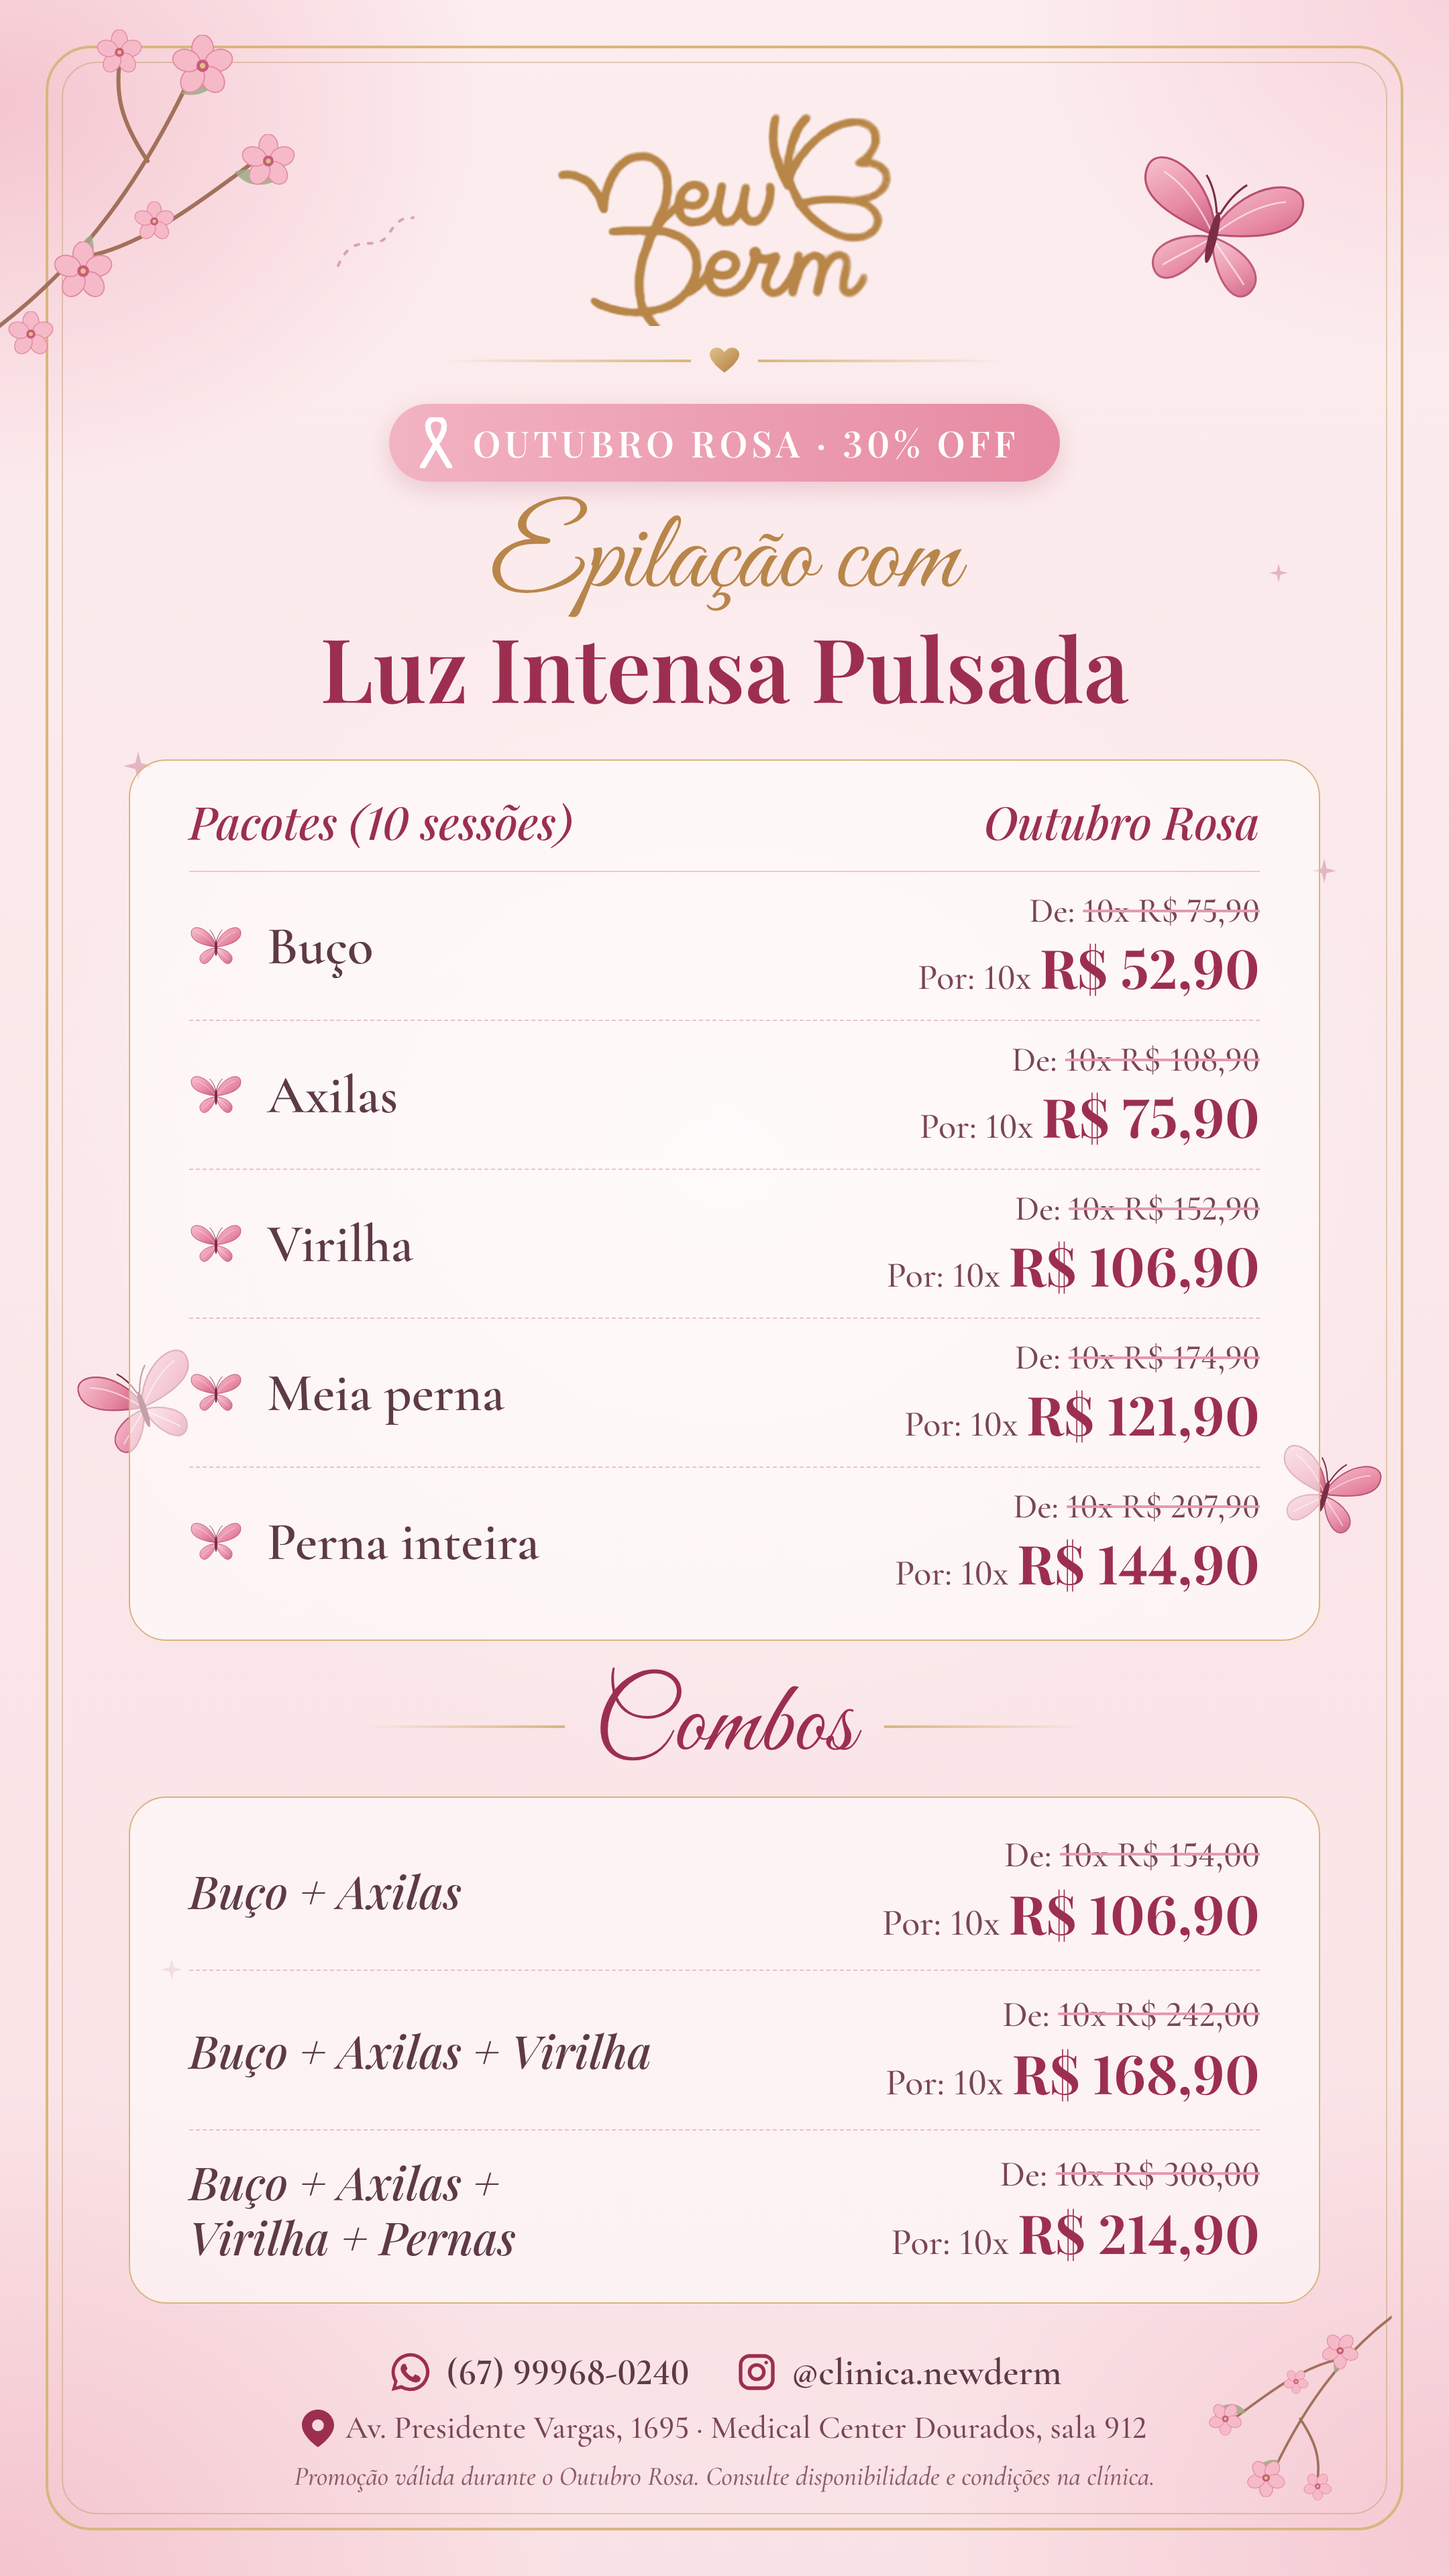
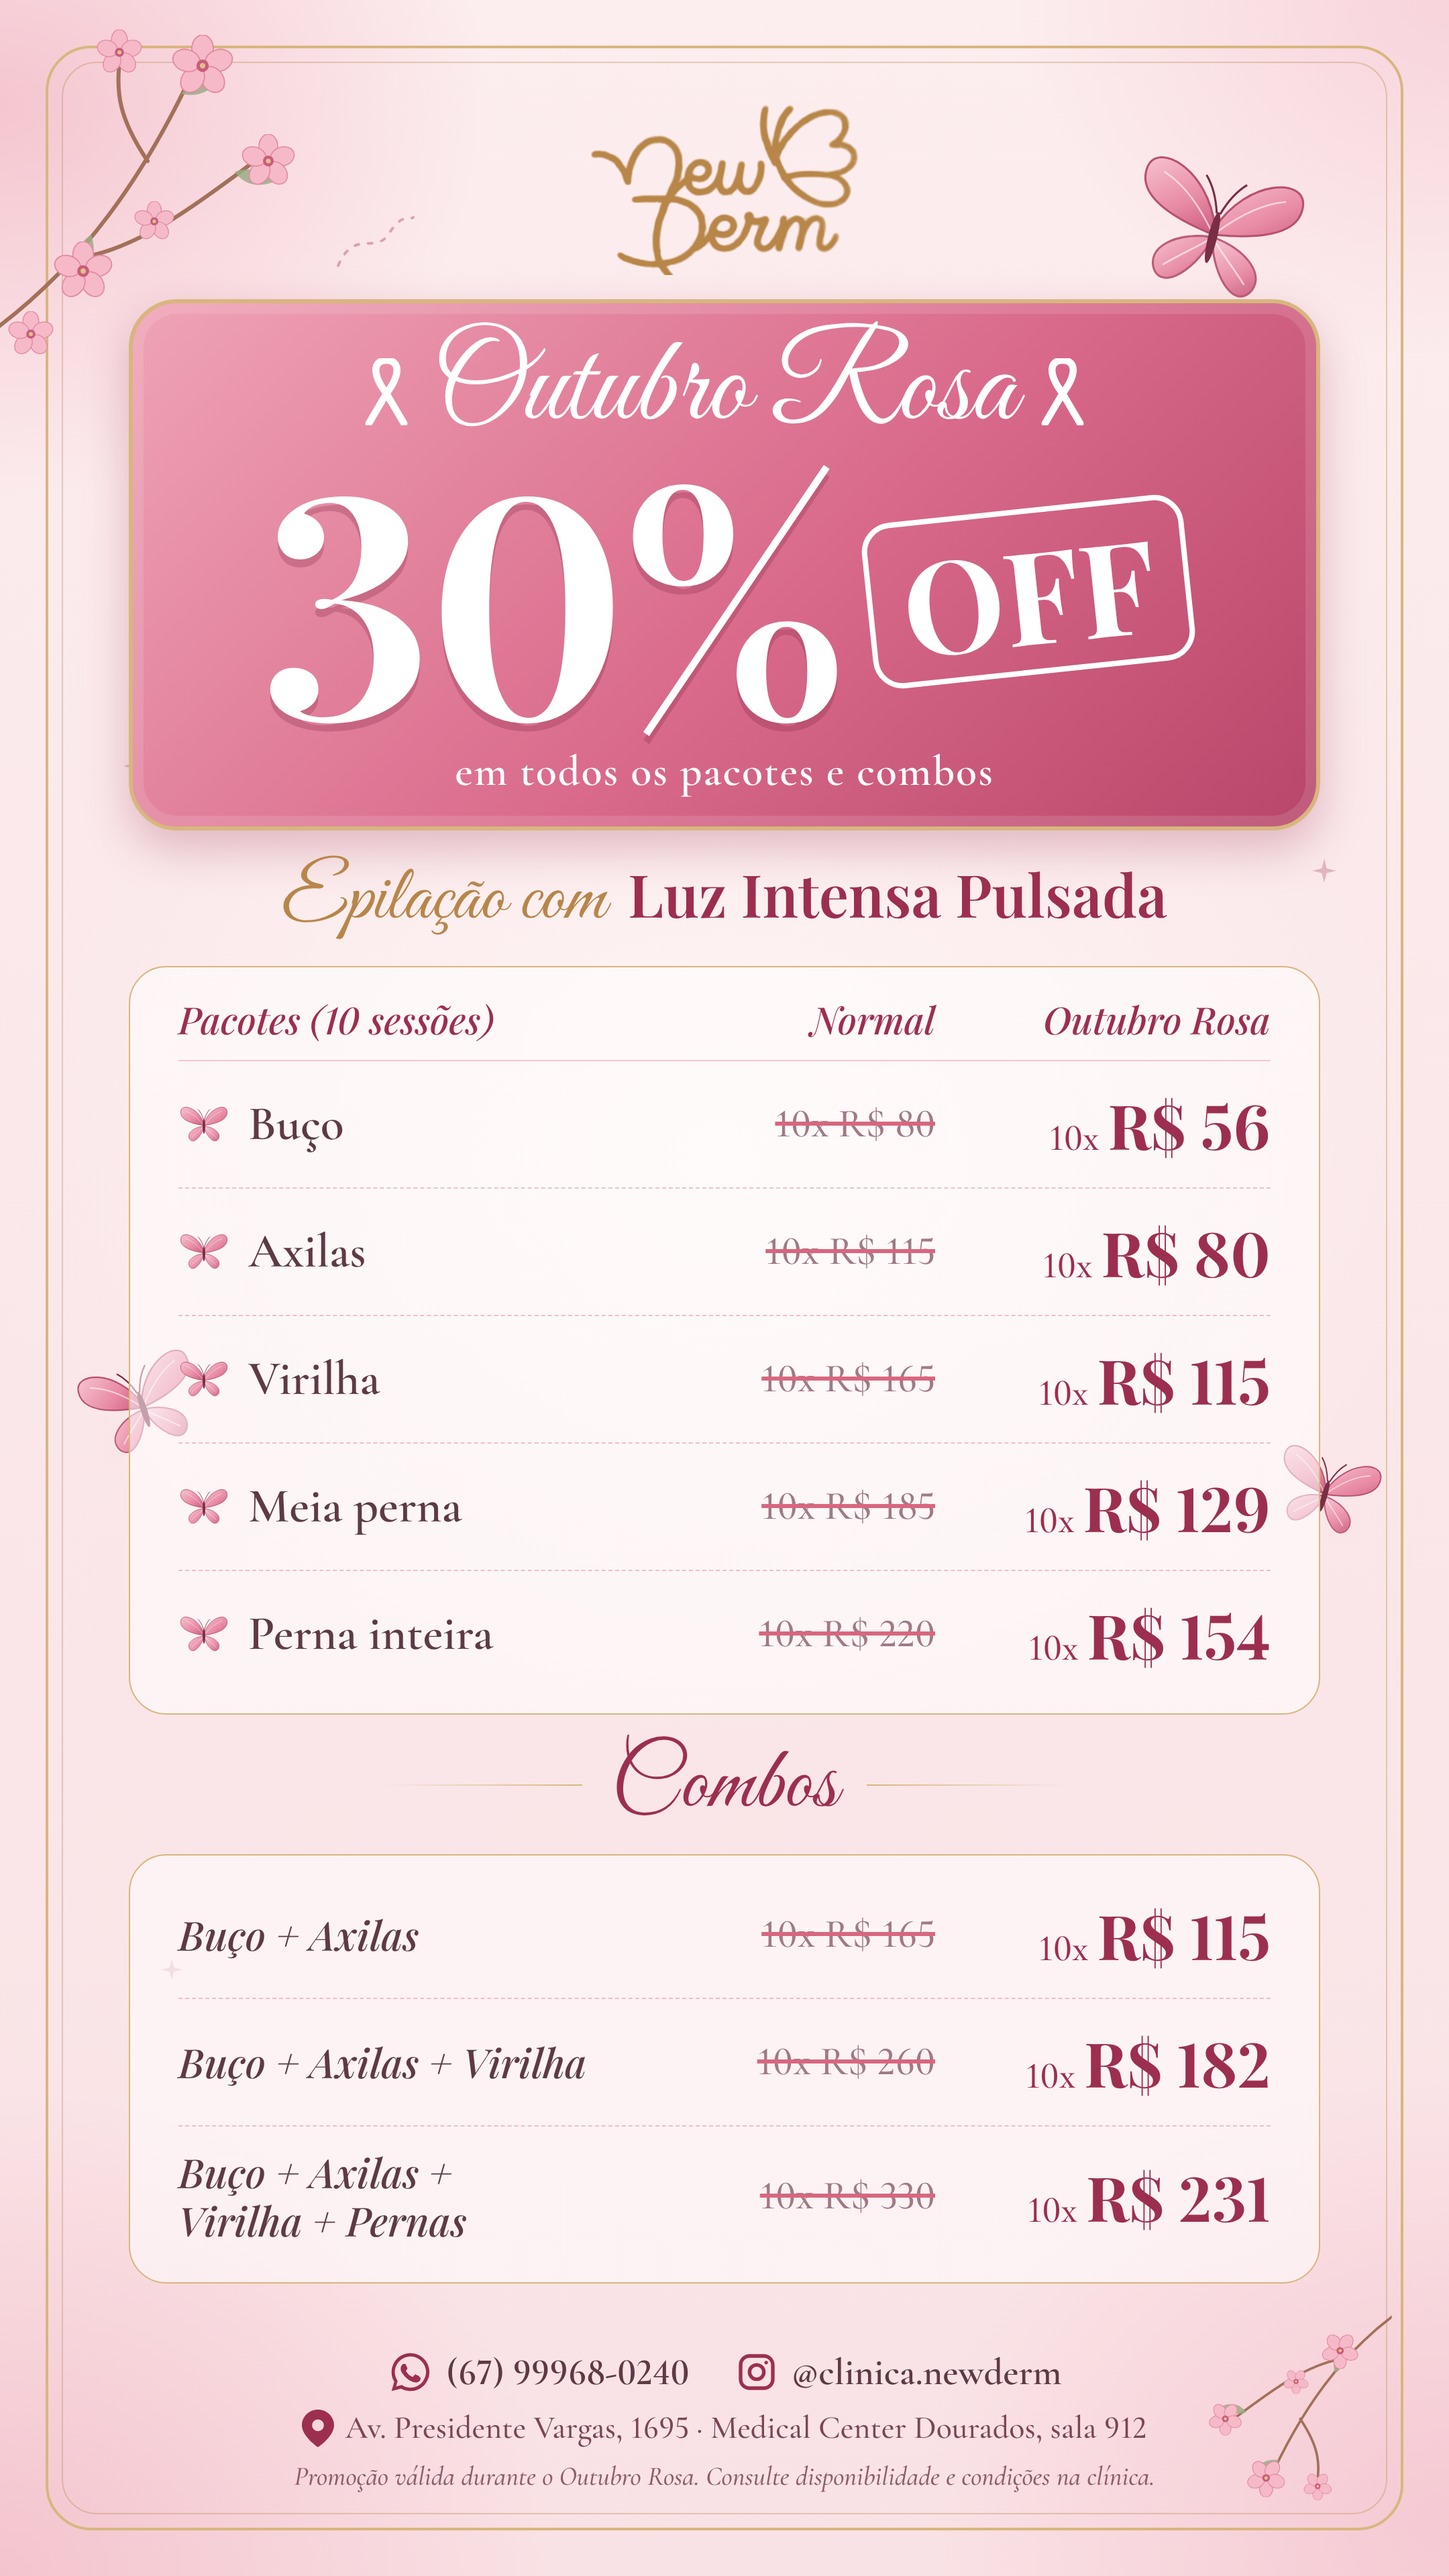
Tabela Outubro Rosa: destaque 30% OFF e valores redondos
Claude-Session: https://claude.ai/code/session_01YCM2u15pHTsNBGbgB1w3ys

diff --git a/identidade-visual/modelo-tabela/tabela.html b/identidade-visual/modelo-tabela/tabela.html
@@ -70,6 +70,29 @@
   .combo{padding:16px 0}
   .card{margin-top:34px}
   .sec{margin-top:26px}
+  .logo{width:200px;margin-top:0}
+  .hero{margin-top:18px;width:100%;border-radius:36px;padding:20px 30px 22px;text-align:center;color:#fff;
+    background:linear-gradient(135deg,#EFA3B6 0%,#D96A8B 55%,#B8466A 100%);border:3px solid var(--gold-l);
+    box-shadow:0 14px 34px rgba(156,47,79,.28), inset 0 0 0 8px rgba(255,255,255,.12)}
+  .hero-top{display:flex;align-items:center;justify-content:center;gap:18px}
+  .hero-top span{font-family:"Great Vibes";font-size:92px;line-height:1}
+  .big{display:flex;align-items:center;justify-content:center;gap:18px;margin-top:-6px}
+  .pct{font-family:"Playfair Display";font-weight:700;font-size:230px;line-height:.95;letter-spacing:-4px;text-shadow:0 6px 0 rgba(122,30,60,.25)}
+  .off{font-family:"Playfair Display";font-weight:700;font-size:96px;line-height:1;padding:10px 22px;border:4px solid #fff;border-radius:22px;transform:rotate(-6deg)}
+  .hero-sub{font-size:32px;font-weight:600;letter-spacing:1px;margin-top:4px}
+  .title{margin-top:22px;font-family:"Playfair Display";font-weight:600;color:var(--wine);font-size:44px;text-align:center}
+  .title .ts{font-family:"Great Vibes";font-weight:400;color:var(--gold);font-size:58px;margin-right:6px}
+  .card{margin-top:18px;padding:12px 36px}
+  .th,.r{display:grid;grid-template-columns:1fr 210px 250px;align-items:center}
+  .th{font-family:"Playfair Display";font-style:italic;color:var(--wine);font-size:28px;padding:8px 0 12px;border-bottom:1.5px solid var(--rose-l)}
+  .th .o,.th .w,.r .o,.r .w{text-align:right}
+  .r{padding:16px 0;border-bottom:1px dashed rgba(229,154,174,.6)}
+  .r:last-child{border-bottom:none}
+  .r .n{display:flex;align-items:center;gap:14px;font-size:36px;font-weight:600;color:#5E3A45}
+  .r.c .n{font-family:"Playfair Display";font-style:italic;font-weight:500;font-size:30px;line-height:1.2}
+  .r .o{font-size:30px;color:#A07A86} .r .o s{text-decoration-color:#D9667F;text-decoration-thickness:2.5px}
+  .r .w{font-size:28px;color:var(--wine)} .r .w b{font-family:"Playfair Display";font-weight:700;font-size:46px}
+  .sec{margin-top:20px} .sec span{font-size:66px}
 </style>
 </head>
 <body>
@@ -139,36 +162,35 @@
 
 <div class="content">
   <img class="logo" src="../logo-newderm-dourado.png" alt="New Derm">
-  <div class="divider"><i></i><svg width="22" height="20"><use href="#heart"/></svg><i></i></div>
 
-  <div class="tag">
-    <svg width="26" height="38" viewBox="0 0 26 38"><path d="M13 20 C4 8 6 1 13 1 C20 1 22 8 13 20 L3 37 M13 20 L23 37" stroke="#fff" stroke-width="4.2" fill="none" stroke-linecap="round"/></svg>
-    Outubro Rosa · 30% OFF
+  <div class="hero">
+    <div class="hero-top">
+      <svg width="34" height="50" viewBox="0 0 26 38"><path d="M13 20 C4 8 6 1 13 1 C20 1 22 8 13 20 L3 37 M13 20 L23 37" stroke="#fff" stroke-width="4" fill="none" stroke-linecap="round"/></svg>
+      <span>Outubro Rosa</span>
+      <svg width="34" height="50" viewBox="0 0 26 38"><path d="M13 20 C4 8 6 1 13 1 C20 1 22 8 13 20 L3 37 M13 20 L23 37" stroke="#fff" stroke-width="4" fill="none" stroke-linecap="round"/></svg>
+    </div>
+    <div class="big"><span class="pct">30%</span><span class="off">OFF</span></div>
+    <div class="hero-sub">em todos os pacotes e combos</div>
   </div>
 
-  <div class="title-s">Epilação com</div>
-  <div class="title">Luz Intensa Pulsada</div>
+  <div class="title"><span class="ts">Epilação com</span> Luz Intensa Pulsada</div>
 
   <div class="card">
-    <div class="thead"><span>Pacotes (10 sessões)</span><span>Outubro Rosa</span></div>
-    <div class="row"><span class="n"><svg width="40" height="32"><use href="#bf"/></svg>Buço</span><span class="p"><div class="de">De: <s>10x R$ 75,90</s></div><div class="por">Por: 10x <b>R$ 52,90</b></div></span></div>
-    <div class="row"><span class="n"><svg width="40" height="32"><use href="#bf"/></svg>Axilas</span><span class="p"><div class="de">De: <s>10x R$ 108,90</s></div><div class="por">Por: 10x <b>R$ 75,90</b></div></span></div>
-    <div class="row"><span class="n"><svg width="40" height="32"><use href="#bf"/></svg>Virilha</span><span class="p"><div class="de">De: <s>10x R$ 152,90</s></div><div class="por">Por: 10x <b>R$ 106,90</b></div></span></div>
-    <div class="row"><span class="n"><svg width="40" height="32"><use href="#bf"/></svg>Meia perna</span><span class="p"><div class="de">De: <s>10x R$ 174,90</s></div><div class="por">Por: 10x <b>R$ 121,90</b></div></span></div>
-    <div class="row"><span class="n"><svg width="40" height="32"><use href="#bf"/></svg>Perna inteira</span><span class="p"><div class="de">De: <s>10x R$ 207,90</s></div><div class="por">Por: 10x <b>R$ 144,90</b></div></span></div>
+    <div class="th"><span class="n">Pacotes (10 sessões)</span><span class="o">Normal</span><span class="w">Outubro Rosa</span></div>
+    <div class="r"><span class="n"><svg width="38" height="30"><use href="#bf"/></svg>Buço</span><span class="o"><s>10x R$ 80</s></span><span class="w">10x <b>R$ 56</b></span></div>
+    <div class="r"><span class="n"><svg width="38" height="30"><use href="#bf"/></svg>Axilas</span><span class="o"><s>10x R$ 115</s></span><span class="w">10x <b>R$ 80</b></span></div>
+    <div class="r"><span class="n"><svg width="38" height="30"><use href="#bf"/></svg>Virilha</span><span class="o"><s>10x R$ 165</s></span><span class="w">10x <b>R$ 115</b></span></div>
+    <div class="r"><span class="n"><svg width="38" height="30"><use href="#bf"/></svg>Meia perna</span><span class="o"><s>10x R$ 185</s></span><span class="w">10x <b>R$ 129</b></span></div>
+    <div class="r"><span class="n"><svg width="38" height="30"><use href="#bf"/></svg>Perna inteira</span><span class="o"><s>10x R$ 220</s></span><span class="w">10x <b>R$ 154</b></span></div>
   </div>
 
   <div class="sec"><i></i><span>Combos</span><i></i></div>
 
-  <div class="card" style="margin-top:14px;padding-top:10px;padding-bottom:10px">
-    <div class="combo"><span class="n">Buço + Axilas</span>
-      <span class="p"><div class="de">De: <s>10x R$ 154,00</s></div><div class="por">Por: 10x <b>R$ 106,90</b></div></span></div>
-    <div class="combo"><span class="n">Buço + Axilas + Virilha</span>
-      <span class="p"><div class="de">De: <s>10x R$ 242,00</s></div><div class="por">Por: 10x <b>R$ 168,90</b></div></span></div>
-    <div class="combo"><span class="n">Buço + Axilas +<br>Virilha + Pernas</span>
-      <span class="p"><div class="de">De: <s>10x R$ 308,00</s></div><div class="por">Por: 10x <b>R$ 214,90</b></div></span></div>
+  <div class="card">
+    <div class="r c"><span class="n">Buço + Axilas</span><span class="o"><s>10x R$ 165</s></span><span class="w">10x <b>R$ 115</b></span></div>
+    <div class="r c"><span class="n">Buço + Axilas + Virilha</span><span class="o"><s>10x R$ 260</s></span><span class="w">10x <b>R$ 182</b></span></div>
+    <div class="r c"><span class="n">Buço + Axilas +<br>Virilha + Pernas</span><span class="o"><s>10x R$ 330</s></span><span class="w">10x <b>R$ 231</b></span></div>
   </div>
-
 </div>
 
 <div class="footer">

diff --git a/identidade-visual/README.md b/identidade-visual/README.md
@@ -36,8 +36,9 @@ Premium e elegante: o dourado e o vinho dão o ar sofisticado; o rosa dá o acol
 - Endereço: Av. Presidente Vargas, 1695 · Medical Center Dourados, sala 912
 
 ## Padrões de preço
-- Pacotes de 10 sessões exibidos como parcelas: `10x R$ 00,90`.
-- Em promoções: "De: ~~10x R$ X~~ / Por: 10x **R$ Y**", arredondando para baixo para final ,90.
+- Pacotes de 10 sessões exibidos como parcelas.
+- Preços em valores redondos (sem centavos), ex.: `10x R$ 80`.
+- Em promoções: colunas "Normal" (riscado) e "Outubro Rosa"/promo em destaque; selo grande com o % OFF no topo.
 
 ## Modelo pronto
 `modelo-tabela/tabela.html` (Story 1080×1920, fontes locais em `modelo-tabela/fonts/`).
